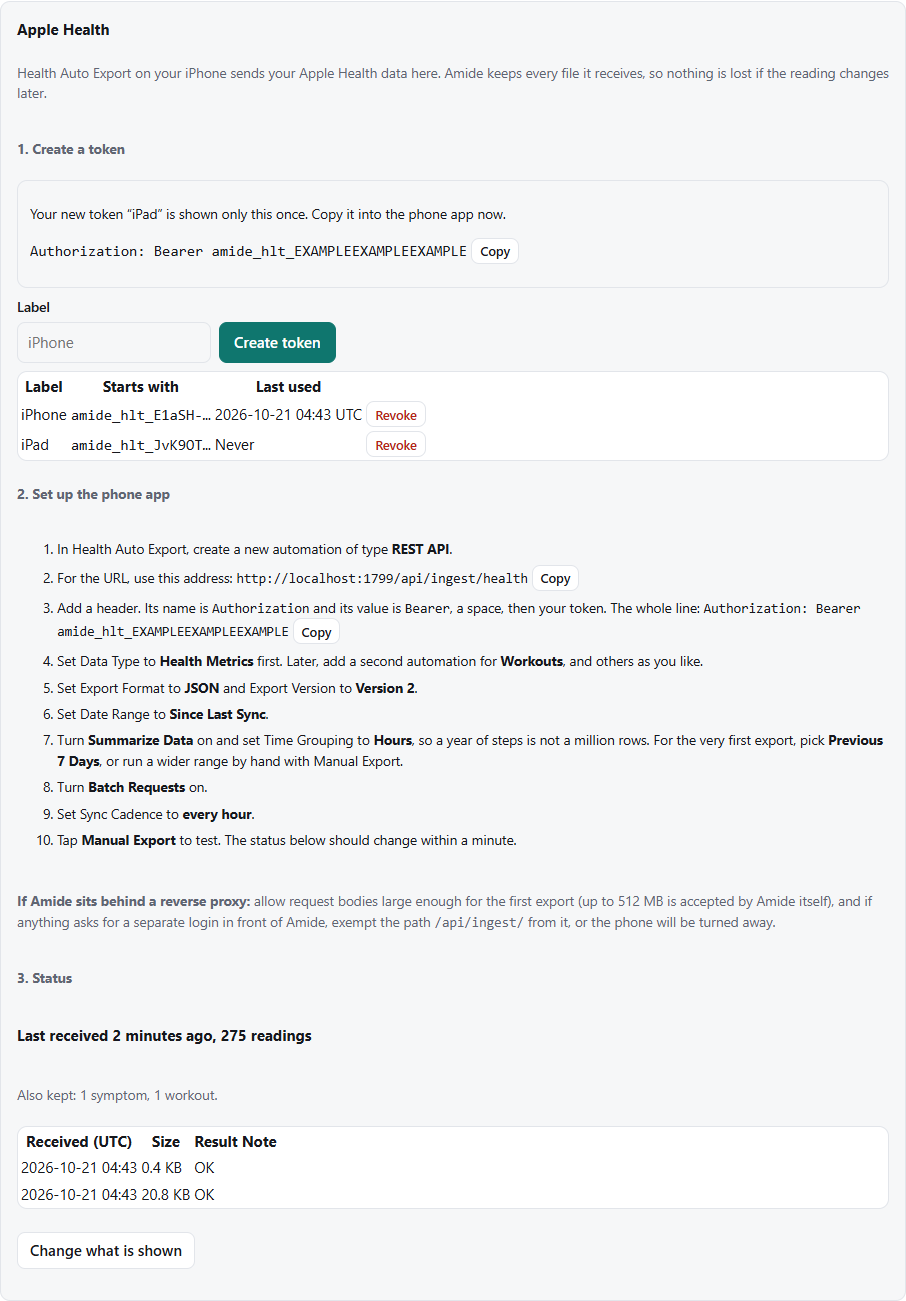
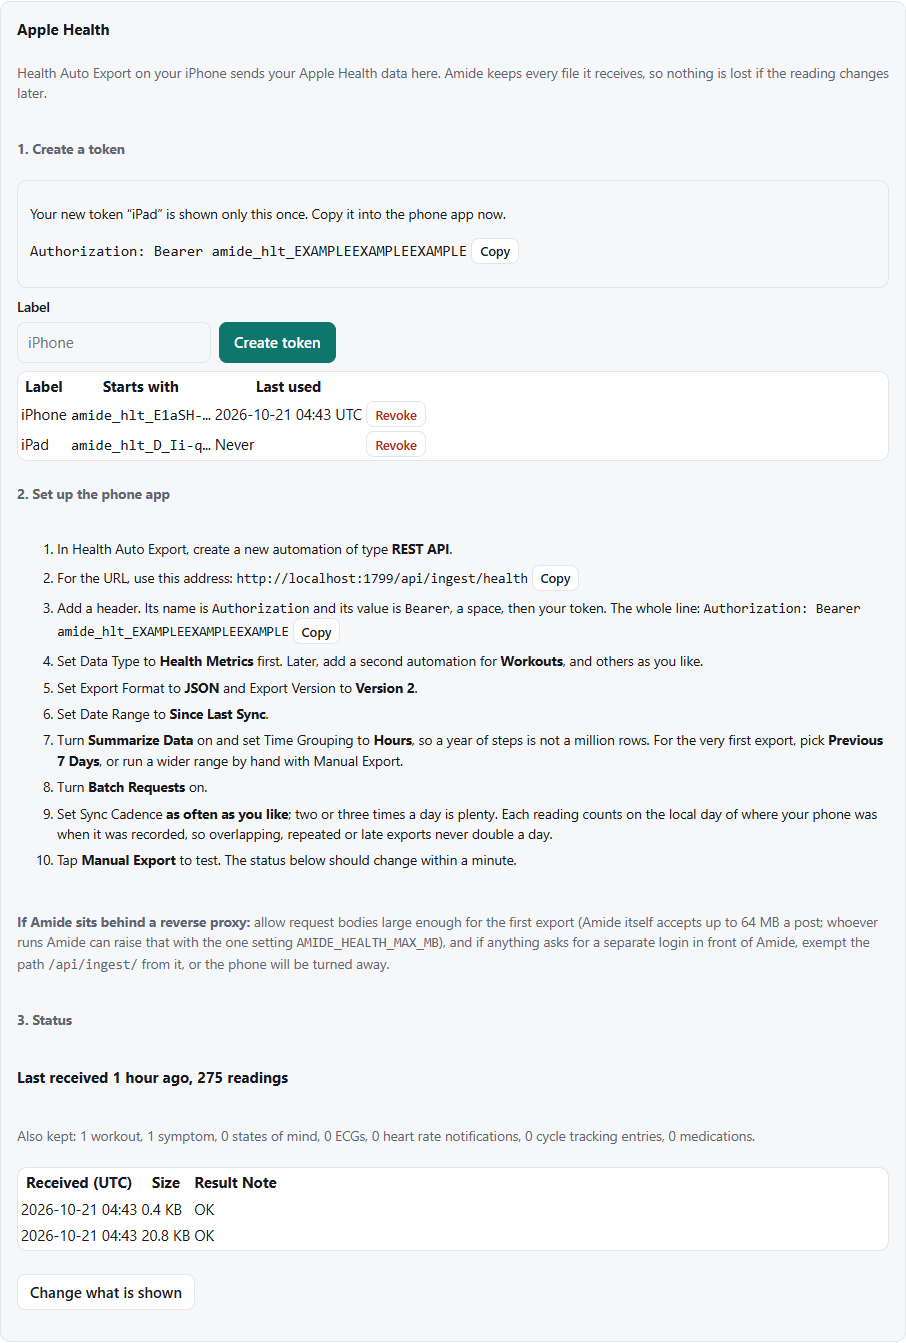
docs: apple health sync cadence and the local-day rule
The card and the guide say to sync as often as you like (two or three
times a day is plenty) and that every reading counts on the local day of
where the phone was, so re-sent, late or travelling exports never split or
double a day; the guide also covers giving up after 5 tries, the wider
quota eviction, Cancel and the revoke check. Screenshots 40 to 42 retaken.

diff --git a/app/templates/health/_settings_card.html b/app/templates/health/_settings_card.html
@@ -45,7 +45,7 @@
     <li>Set Date Range to <strong>Since Last Sync</strong>.</li>
     <li>Turn <strong>Summarize Data</strong> on and set Time Grouping to <strong>Hours</strong>, so a year of steps is not a million rows. For the very first export, pick <strong>Previous 7 Days</strong>, or run a wider range by hand with Manual Export.</li>
     <li>Turn <strong>Batch Requests</strong> on.</li>
-    <li>Set Sync Cadence to <strong>every hour</strong>.</li>
+    <li>Set Sync Cadence <strong>as often as you like</strong>; two or three times a day is plenty. Each reading counts on the local day of where your phone was when it was recorded, so overlapping, repeated or late exports never double a day.</li>
     <li>Tap <strong>Manual Export</strong> to test. The status below should change within a minute.</li>
   </ol>
   <p class="small muted"><strong>If Amide sits behind a reverse proxy:</strong> allow request bodies large enough for the first export (Amide itself accepts up to {{ health.max_mb }} MB a post; whoever runs Amide can raise that with the one setting <code>AMIDE_HEALTH_MAX_MB</code>), and if anything asks for a separate login in front of Amide, exempt the path <code>/api/ingest/</code> from it, or the phone will be turned away.</p>

diff --git a/docs/GUIDE.md b/docs/GUIDE.md
@@ -295,7 +295,7 @@ Everything you type or copy into the phone app is on one card: **Settings, Integ
 7. Set **Date Range** to **Since Last Sync**.
 8. Turn **Summarize Data** on and set the time grouping to **Hours**, so a year of steps is not a million rows. For the very first export pick **Previous 7 Days**, or run a wider range by hand with **Manual Export**.
 9. Turn **Batch Requests** on.
-10. Set the sync cadence to **every hour**.
+10. Set the sync cadence **as often as you like**; two or three times a day is plenty. Exports that overlap, repeat what was already sent or cover only part of a day are fine: every reading is matched and updated, never added twice.
 11. Tap **Manual Export** to test. The **Status** at the bottom of the card changes from "Waiting for first data" to "Last received ... readings" within a minute, and the list of recent receipts shows each one as OK, Stored or Needs a look, so you can see a problem without the phone.
 
 If Amide sits behind something that forwards web traffic to it, make it accept request bodies large enough for the first export (Amide itself accepts up to 64 MB a post; the person who runs it can raise that with the one setting `AMIDE_HEALTH_MAX_MB`). If anything asks for a separate sign-in in front of Amide, exempt the path `/api/ingest/` from it, or the phone will be turned away: the phone app cannot sign in. Amide's own sign-in and two-factor step are not used on this path; the token is what lets the phone in.
@@ -306,23 +306,23 @@ The first time data arrives, a popup opens on your next page.
 
 ![The first-data popup](guide/img/41-apple-popup.png)
 
-It lists only what Amide actually received, in sections (Activity, Body, Nutrition and water, Sleep, Heart and vitals, Mind and other), each metric with its unit. A switch on a section turns all of it on or off. The ones tagged **Recommended** start on; for a phone without a watch that means steps, walking and running distance, flights climbed, weight, body fat, lean mass, BMI, water, food energy, protein, carbs, fat, fiber, state of mind and symptoms. **Turn all off** and **Use recommended** are there, the count at the bottom shows how many are on, and **Save choices** keeps your picks. Metrics you leave off are **still stored**; they are just not shown or charted, so you can turn them on later without losing anything. When a new kind of data shows up later, the popup asks again about only the new ones. To reopen it any time, click **Change what is shown** on the card.
+It lists only what Amide actually received, in sections (Activity, Body, Nutrition and water, Sleep, Heart and vitals, Mind and other), each metric with its unit. A switch on a section turns all of it on or off. The ones tagged **Recommended** start on; for a phone without a watch that means steps, walking and running distance, flights climbed, weight, body fat, lean mass, BMI, water, food energy, protein, carbs, fat, fiber, state of mind and symptoms. **Turn all off** and **Use recommended** are there, **Cancel** (or the X) closes it without saving, so it asks again next time, the count at the bottom shows how many are on, and **Save choices** keeps your picks. Metrics you leave off are **still stored**; they are just not shown or charted, so you can turn them on later without losing anything. When a new kind of data shows up later, the popup asks again about only the new ones. To reopen it any time, click **Change what is shown** on the card.
 
 ### The Apple tab
 
 ![The Apple tab](guide/img/42-apple-tab.png)
 
-The **Apple** tab appears on the Body page once you have made a token or received data. It has a **Range** drop-down like the other Body charts, a table with today's value and the last 7 days (a total for things that add up, such as steps and water; an average for the rest), a chart for every metric you switched on, the list of Apple **workouts** (what Apple recorded, kept apart from your own workout log) and, if switched on, your **symptoms** and **state of mind** entries as a dated list. Each reading counts on the day it was on your phone when it was taken, so a late-evening walk stays on that evening's day even if you look from another time zone.
+The **Apple** tab appears on the Body page once you have made a token or received data. It has a **Range** drop-down like the other Body charts, a table with today's value and the last 7 days (a total for things that add up, such as steps and water; an average for the rest), a chart for every metric you switched on, the list of Apple **workouts** (what Apple recorded, kept apart from your own workout log) and, if switched on, your **symptoms** and **state of mind** entries as a dated list. Each reading counts on the **local day of where your phone was when it was recorded** (Amide stores the time in UTC together with the phone's own offset at that moment). So a re-sent or late export lands on the right day, a late-evening walk stays on that evening's day even if you look from another time zone, and a trip across time zones does not split or double a day: the same day sent again from the new zone replaces the earlier one. Workouts, symptoms and state of mind follow the same rule. When two sources (say the phone and another app) both count steps for a day, only the one with the larger total is used, so they are not added together. "Today" and the last 7 days follow your own time zone in Amide.
 
 ### What is kept, and for how long
 
 - Every export is kept exactly as it arrived, compressed, so a later improvement to the reader can reprocess it. These raw copies are deleted after **90 days**; the clean per-metric history stays.
 - Sending the same export twice is recognised and not stored twice.
-- Each person's raw copies are limited to **2 GB** in all (the person who runs Amide can change it with `AMIDE_HEALTH_RAW_QUOTA_MB`). When a new export would pass that, the oldest copies that were already read in full are removed first (their readings stay, and the receipt says "raw copy removed to stay within the storage limit"); if that is still not enough, the phone is told the server is full and nothing is kept.
+- Each person's raw copies are limited to **2 GB** in all (the person who runs Amide can change it with `AMIDE_HEALTH_RAW_QUOTA_MB`). When a new export would pass that, the oldest copies that were already read in full are removed first (their readings stay, and the receipt says "raw copy removed to stay within the storage limit"), then the oldest copies that will not be read again by themselves (ones marked Needs a look, and ones left unread for over an hour); a copy that may still be being read is never removed. If that is still not enough, the phone is told the server is full and nothing is kept.
 - A post that is not JSON at all is listed as Needs a look, but no copy of it is kept.
-- If reading an export fails on Amide's side (not because of what was sent), the phone is told to try again later and resends that batch; Amide also retries such exports once a day by itself.
+- If reading an export fails on Amide's side (not because of what was sent), the phone is told to try again later and resends that batch; Amide also retries such exports once a day by itself, along with any left unread for over an hour (after a restart, say). After **5** failed tries Amide gives up on that export: the phone is told it arrived, so it moves on, and the receipt says "Gave up after 5 tries; fix needed". Sending the same export again by hand still tries once more.
 - One person can hold at most **10** live tokens; revoke one you no longer use to make another.
-- Some kinds are **stored only**, with no switch and no display: ECG, heart rate notifications, cycle tracking and medications. The card shows how many of each have been received.
+- Some kinds are **stored only**, with no switch and no display: ECG, heart rate notifications, cycle tracking and medications. The card shows how many of each have been received (0 until one arrives), next to the workouts, symptoms and state of mind counts.
 - The clean history and your choices are included in backups; the raw copies and tokens are not.
 - This is a record, not medical advice. Amide does not interpret your numbers.
 
@@ -447,7 +447,7 @@ Everything is stored in one folder (`AMIDE_DATA_DIR`), so backing up that one fo
 - **Scheduled backups** (to a folder you choose).
 - **Link descriptions** (one plain request to a site you saved a link to, when you left its description blank; can be turned off).
 - **Price-list watcher** (a separate program you run).
-- **Apple Health** works the other way round: Amide makes no outside request, but if you set it up, your **phone** sends data to your Amide, using a token you create and can revoke. See [Apple Health](#8a-apple-health).
+- **Apple Health** works the other way round: Amide makes no outside request, but if you set it up, your **phone** sends data to your Amide, using a token you create and can revoke (the card asks before revoking). See [Apple Health](#8a-apple-health).
 - The **calendar feed**, a private address you choose to share.
 
 The Privacy Policy page in the footer lists these.

diff --git a/CHANGELOG.md b/CHANGELOG.md
@@ -4,6 +4,7 @@ Newest first. Dates are when the work was done.
 
 ## v1.0.4 (2026-10)
 
+- **Apple Health: the right day, however often the phone sends.** The phone app can now run as often as you like (two or three times a day is plenty, the card says): every reading, workout, symptom and state of mind counts on the local day of where your phone was when it was recorded, so overlapping, repeated or late exports never double a day, and a day sent again from another time zone replaces the earlier one instead of being stored twice. Two sources of the same total (the phone and another app) are no longer added together. An export that keeps failing on the server's side is given up on after 5 tries (the phone is told it arrived; a resend by hand still tries), exports a crash left unread are picked up by the daily pass, and the storage limit can also free copies that will not be read again. The popup has **Cancel** and a close X, the card counts all the stored-only kinds (0 included), and **Revoke** asks first. Chart captions on the Apple tab show whole numbers without ".0".
 - **Apple Health (Health Auto Export).** Your iPhone's Apple Health data can now flow into Amide: **Settings, Integrations, Apple Health** makes a token and shows the address and header line for the phone app, with the exact settings in order and a live status. Amide receives the app's JSON at its own address, keeps every export as it arrived (90 days) and builds a clean per-metric history; a popup on the first data lets you choose what to show, and an **Apple** tab on Body charts it with today's and the week's figures, Apple workouts, symptoms and state of mind. ECG, heart rate notifications, cycle tracking and medications are stored only. Apple data stays apart from your own measurements. A read function returns the history as plain data. The receiver takes posts up to 64 MB (`AMIDE_HEALTH_MAX_MB`), keeps at most 2 GB of raw copies per person (`AMIDE_HEALTH_RAW_QUOTA_MB`; the oldest already-read copies go first), allows 10 live tokens per person, and asks the phone to resend when an import fails on the server's side. The guides have a new Apple Health section.
 - Journal: the **Appetite** badge colors are now reversed, since lower appetite is the better result: 1 is green and 5 is red (mood, energy and sleep stay higher-is-better). The color is worked out when the page is drawn, so every past entry changes too.
 - **Both guides brought up to date.** `docs/USER_GUIDE.md` and `docs/GUIDE.md` now cover everything added since the last update (Learn, scale readings and import, journal photos, photo reminders, macro rings, the 14-day water table and the 90% rule, removing an item from an order, price correction, Active Vials, weight change labels, the Not established convention on library cards), and all 39 screenshots in `docs/guide/img` were retaken from fresh invented demo data (nine are new).
